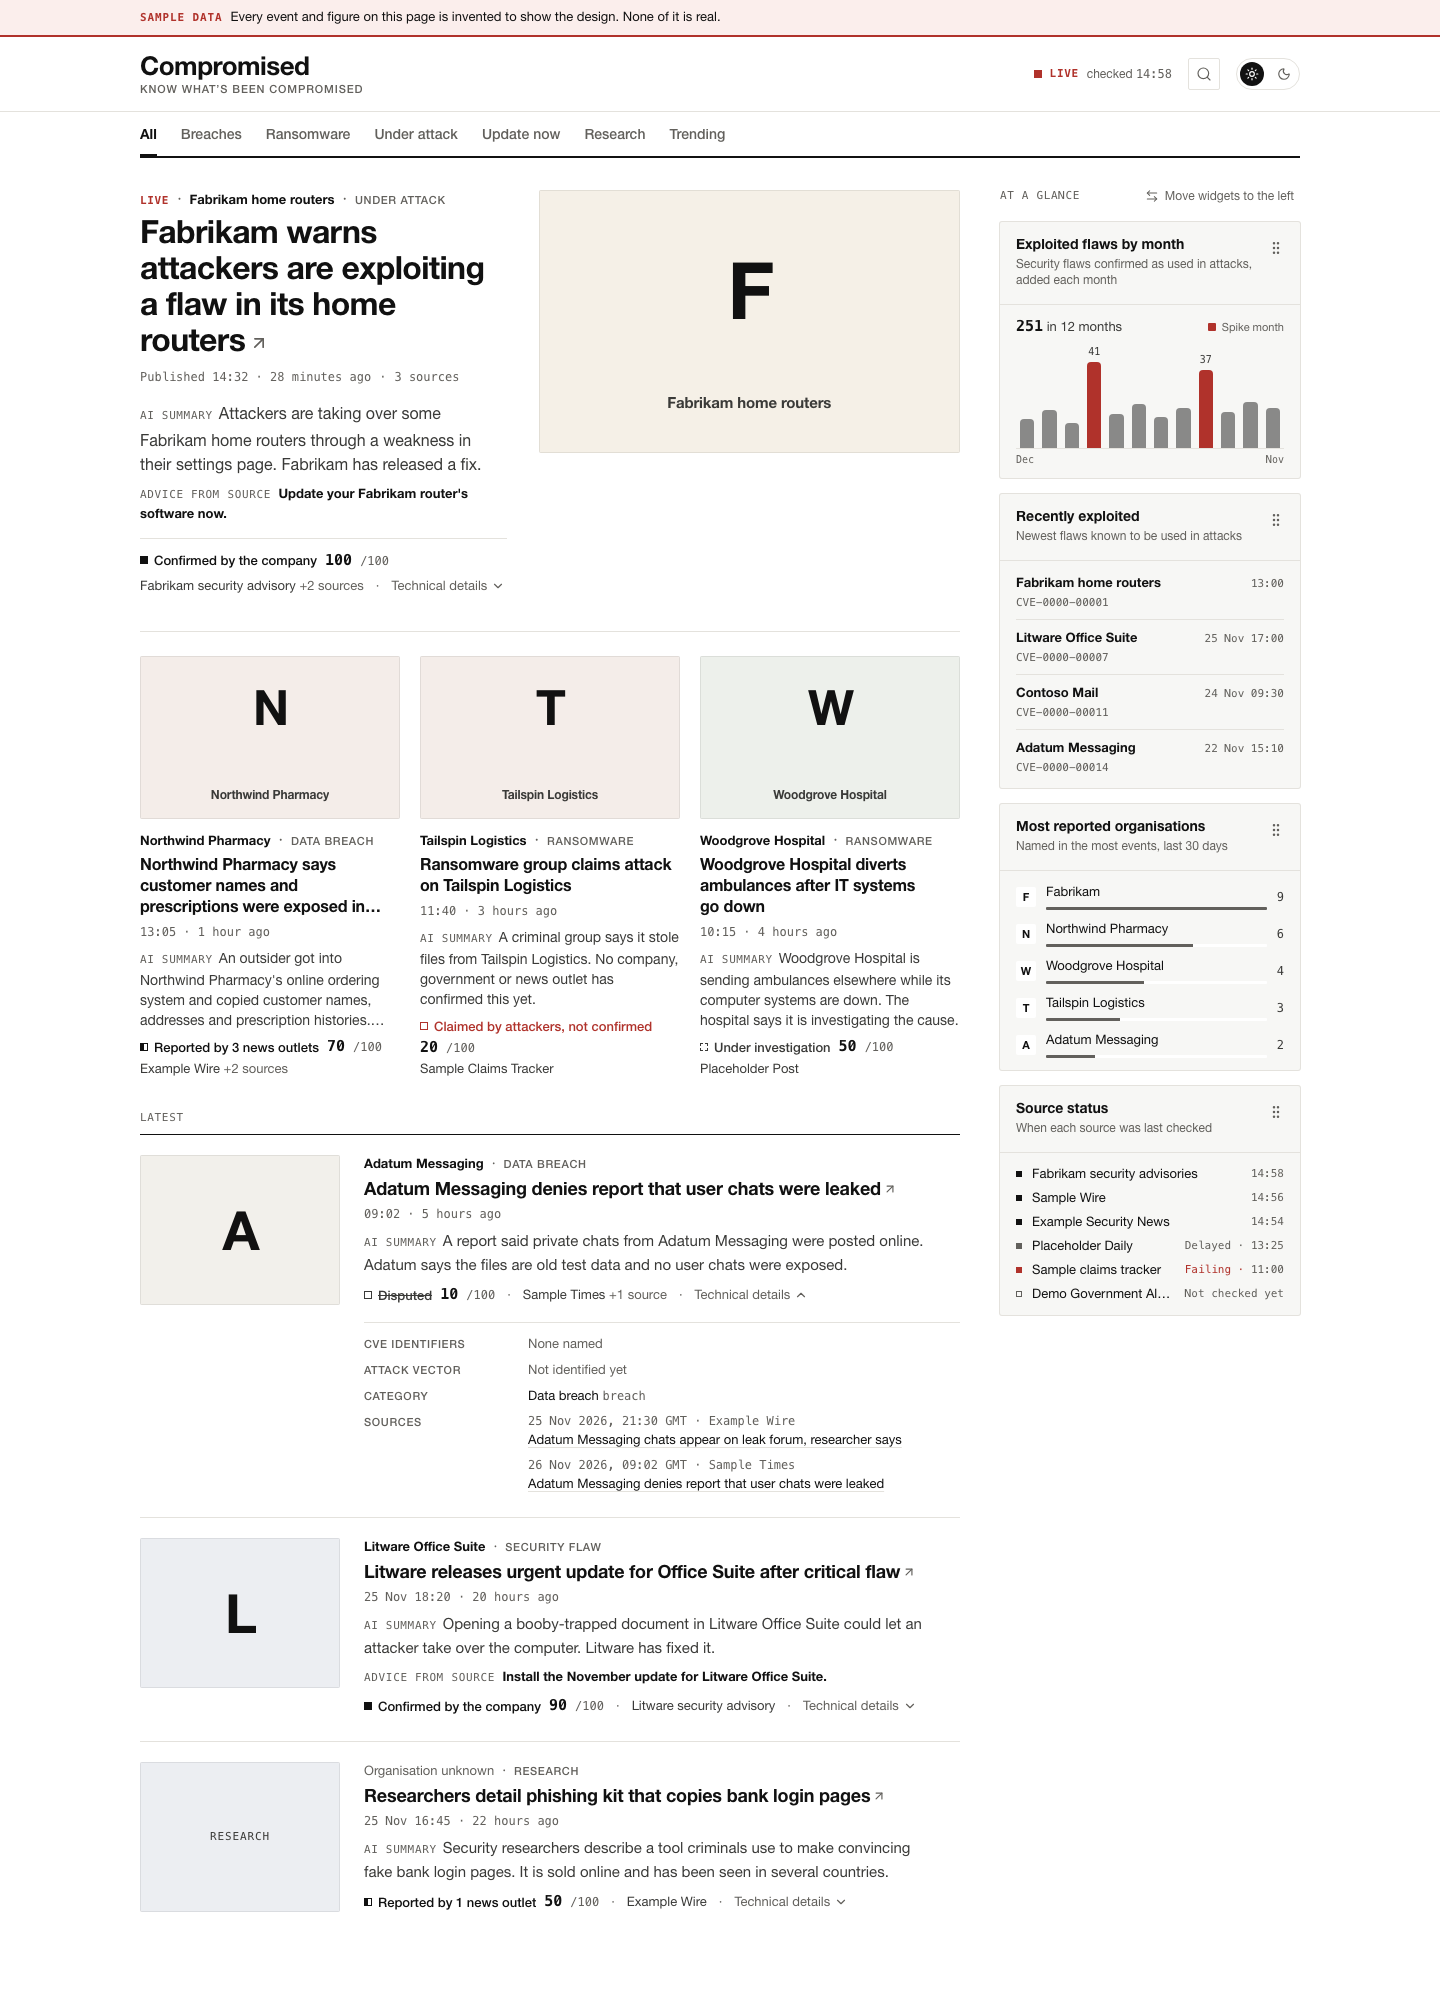
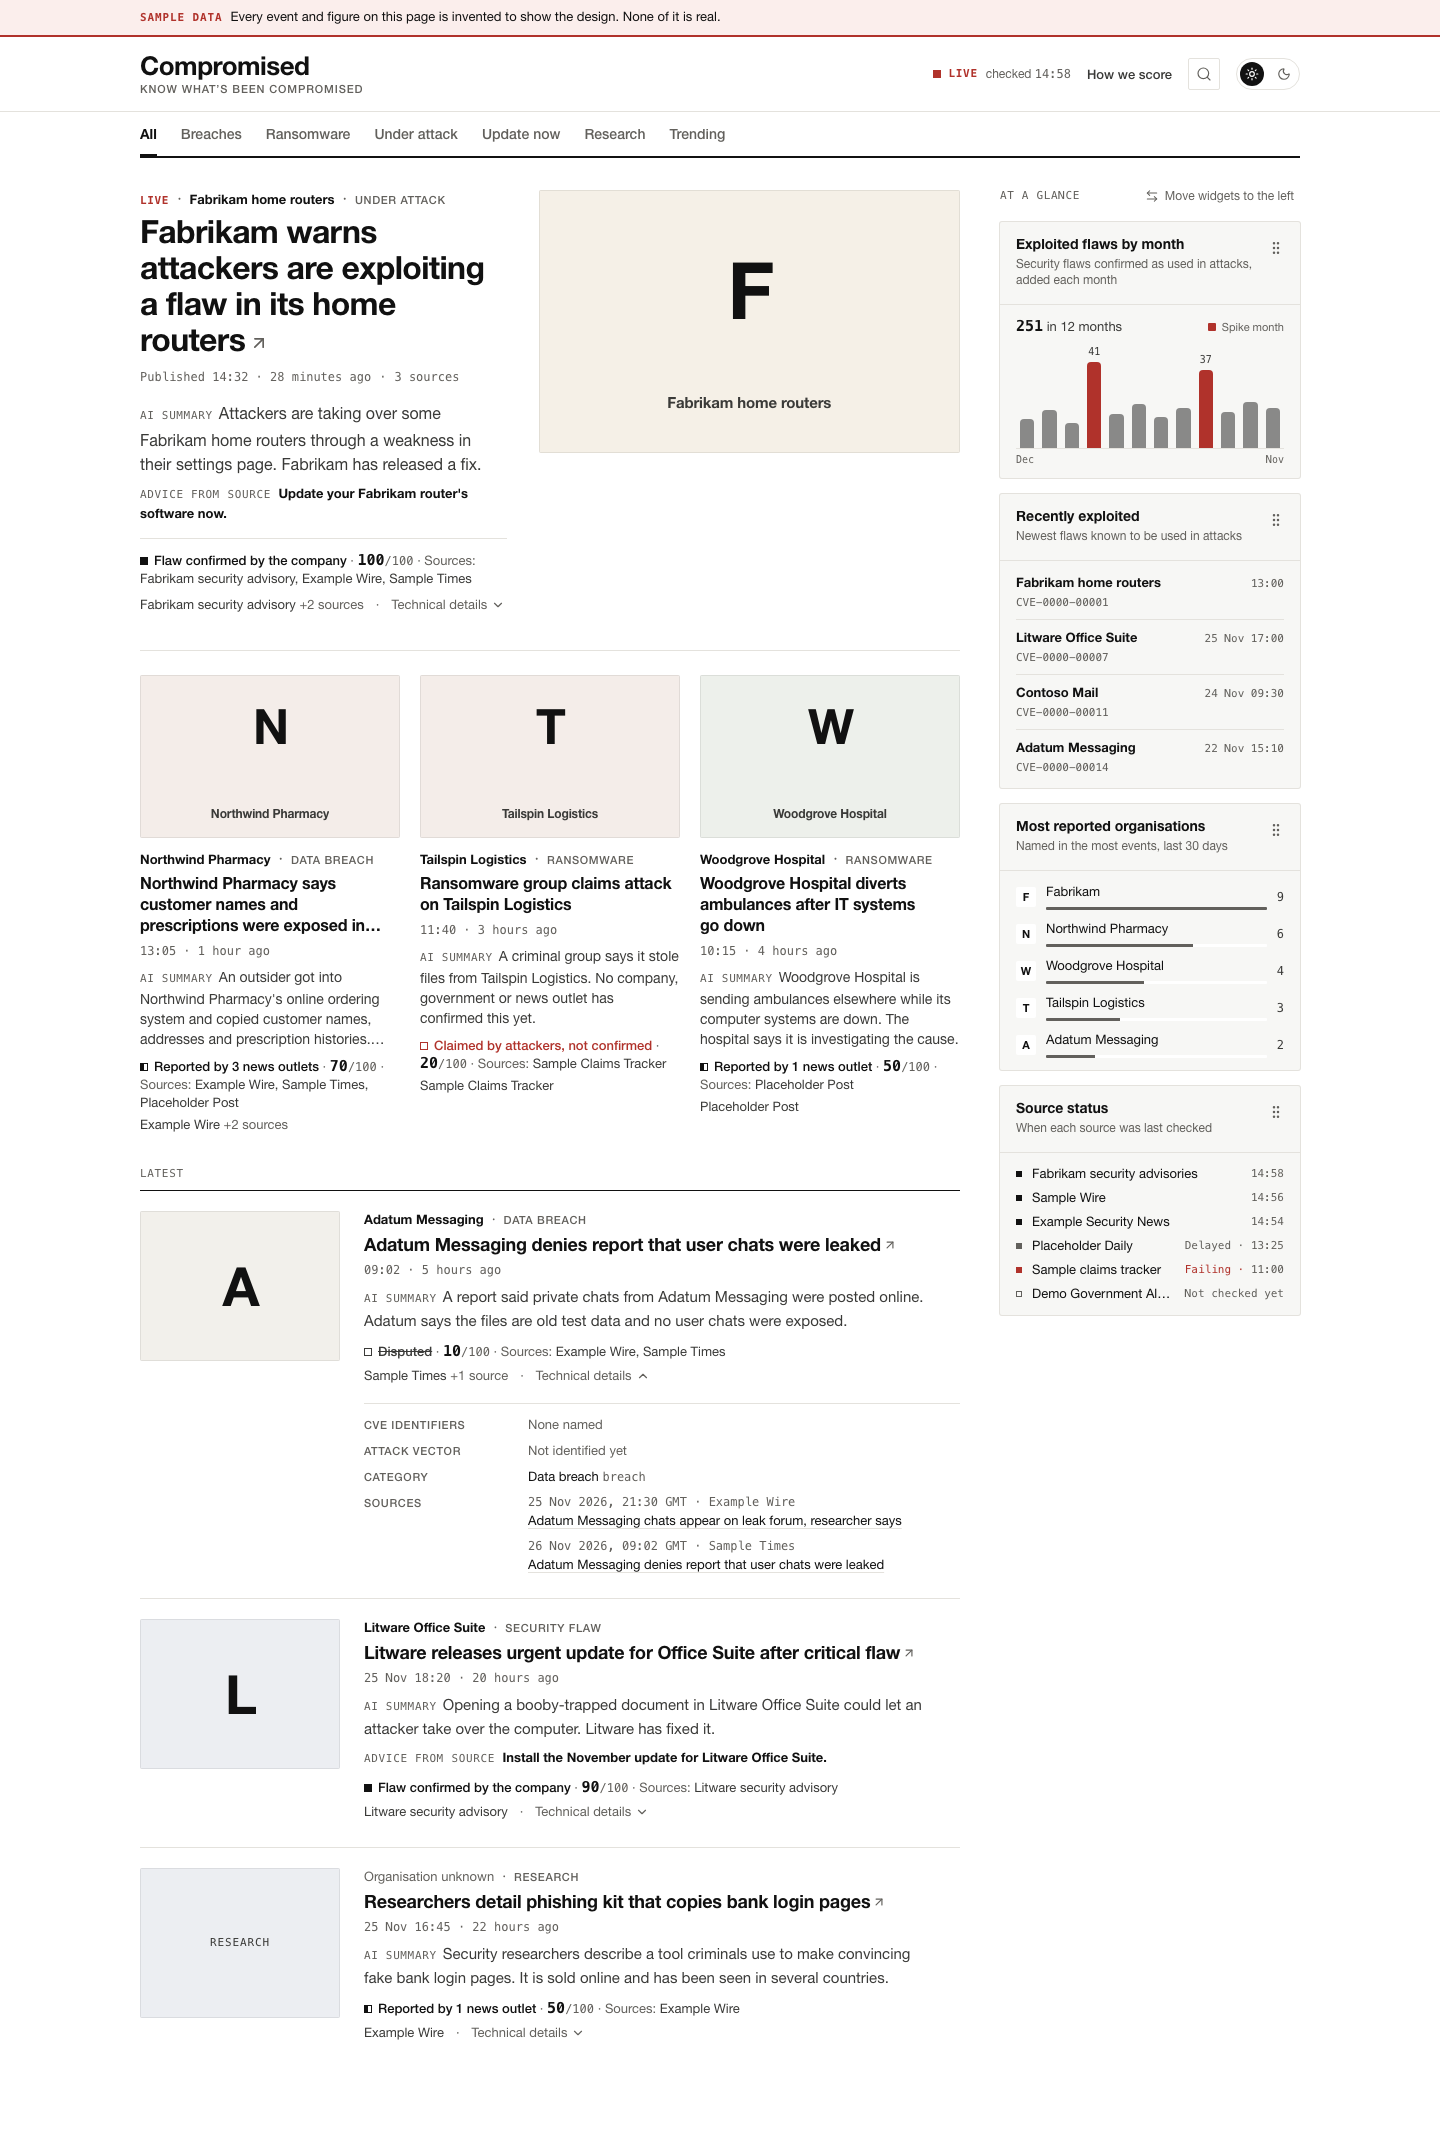
Replace the checkpoint screenshots with real trust labels
Light, dark, phone and tablet for the real feed and the sample preview, after
merging #7 with #9. The trust line now sits on its own line in feed rows and
wraps as text, so no separator dangles. The capture script now chooses dark
the way the theme switch does: before, every dark image matched the light one
because the site ignores the system setting.

diff --git a/web/components/feed/trust.tsx b/web/components/feed/trust.tsx
@@ -23,41 +23,39 @@ export function Trust({
   const { status, label, score, sources } = trust;
   const claimed = status === "claimed";
 
+  // Inline text, so a long label or source list wraps like a sentence on narrow screens.
   return (
-    <div
+    <p
       data-slot="trust"
       data-status={status}
       aria-label="Trust"
-      className={cn(
-        "flex flex-row flex-wrap items-center gap-x-2 gap-y-1 text-[13px] leading-[18px]",
-        className,
-      )}
+      className={cn("text-[13px] leading-[18px] text-ink-3", className)}
     >
       <Badge
         variant="outline"
         className={cn(
-          "h-auto gap-1.5 whitespace-normal border-0 p-0 text-left text-[13px] leading-[18px] font-medium",
+          "inline h-auto whitespace-normal border-0 p-0 text-left align-baseline text-[13px] leading-[18px] font-medium",
           claimed ? "text-red-ink" : "text-ink",
           status === "investigating" && "text-ink-2",
           status === "disputed" && "text-ink-2 line-through decoration-1",
         )}
       >
-        <span aria-hidden className="trust-glyph" data-status={status} />
+        <span aria-hidden className="trust-glyph mr-1.5 align-[0px]" data-status={status} />
         {label}
       </Badge>
       <Separator />
       <span
-        className="inline-flex items-baseline font-mono text-ink-3"
+        className="whitespace-nowrap font-mono"
         aria-label={`Confidence score ${score} out of 100`}
       >
         <span className="text-[15px] leading-4 font-bold text-ink tabular">{score}</span>
         <span className="text-xs leading-4">/100</span>
       </span>
       <Separator />
-      <span className="text-ink-3">
+      <span>
         Sources: <span className="text-ink-2">{sources.join(", ")}</span>
       </span>
-    </div>
+    </p>
   );
 }
 

diff --git a/web/components/feed/feed-row.tsx b/web/components/feed/feed-row.tsx
@@ -71,16 +71,13 @@ export function FeedRow({ item, now }: { item: FeedItem; now?: Date }) {
           </p>
         )}
         <ActionLine item={item} />
-        <div className="mt-2.5 flex flex-wrap items-center gap-x-3 gap-y-1.5 text-[13px] leading-[18px] text-ink-3">
-          {item.trust && (
-            <>
-              <Trust trust={item.trust} />
-              <span aria-hidden>·</span>
-            </>
-          )}
-          <SourceNames item={item} />
-          <span aria-hidden>·</span>
-          <DetailsToggle item={item} />
+        <div className="mt-2.5 flex flex-col gap-1.5 text-[13px] leading-[18px] text-ink-3">
+          <Trust trust={item.trust} />
+          <div className="flex flex-wrap items-center gap-x-3 gap-y-1.5">
+            <SourceNames item={item} />
+            <span aria-hidden>·</span>
+            <DetailsToggle item={item} />
+          </div>
         </div>
       </div>
     </Item>

diff --git a/docs/design/checkpoint/README.md b/docs/design/checkpoint/README.md
@@ -1,5 +1,15 @@
 # Homepage design checkpoint (ticket #9), white and smooth revision
 
+**Screenshots replaced on 2026-11-26 after merging #7 (trust labels) with #9.** Every row now
+shows the API's own trust label, its 0-100 score and the sources it counted, in the designed
+trust line (status square, label, score, "Sources: ..."); commentary carries none. The real feed
+in these images is a production build against a database seeded from every real captured sample
+in `api/tests/fixtures/real` (no live fetch), so the All tab holds 5 events: "Reported by N news
+outlets" (50, 70) and a CISA KEV flaw "Flaw confirmed by a government agency" (90). The sample
+preview uses only labels the API can produce. The dark images were previously identical to the
+light ones (the site ignores the system setting); the capture script now chooses dark as the
+theme switch does. The text below describes the earlier capture.
+
 Screenshots for the owner's sign-off, taken on 2026-11-26 from a production build, light first, as
 a reader in London sees them (times are the reader's local time). This revision follows Niko's
 second review: article preview images, a white page, and everything smooth.
@@ -85,8 +95,7 @@ Technical details expand, the new-events bar with rows that never move, light an
 
 Widgets other than source status have no API yet (issue #15). On the real page they say so
 quietly ("No figures yet", "Nothing listed yet") and show no invented values. Fields later tickets
-fill keep their quiet empty states: "Not yet assessed" instead of a trust label and score, the
-publisher's own excerpt (unlabelled) instead of an AI summary, "+N sources" omitted until
+fill keep their quiet empty states: the publisher's own excerpt (unlabelled) instead of an AI summary, "+N sources" omitted until
 grouping (#5).
 
 Note for the owner: a publisher's picture is the publisher's choice. Some use exactly the imagery
